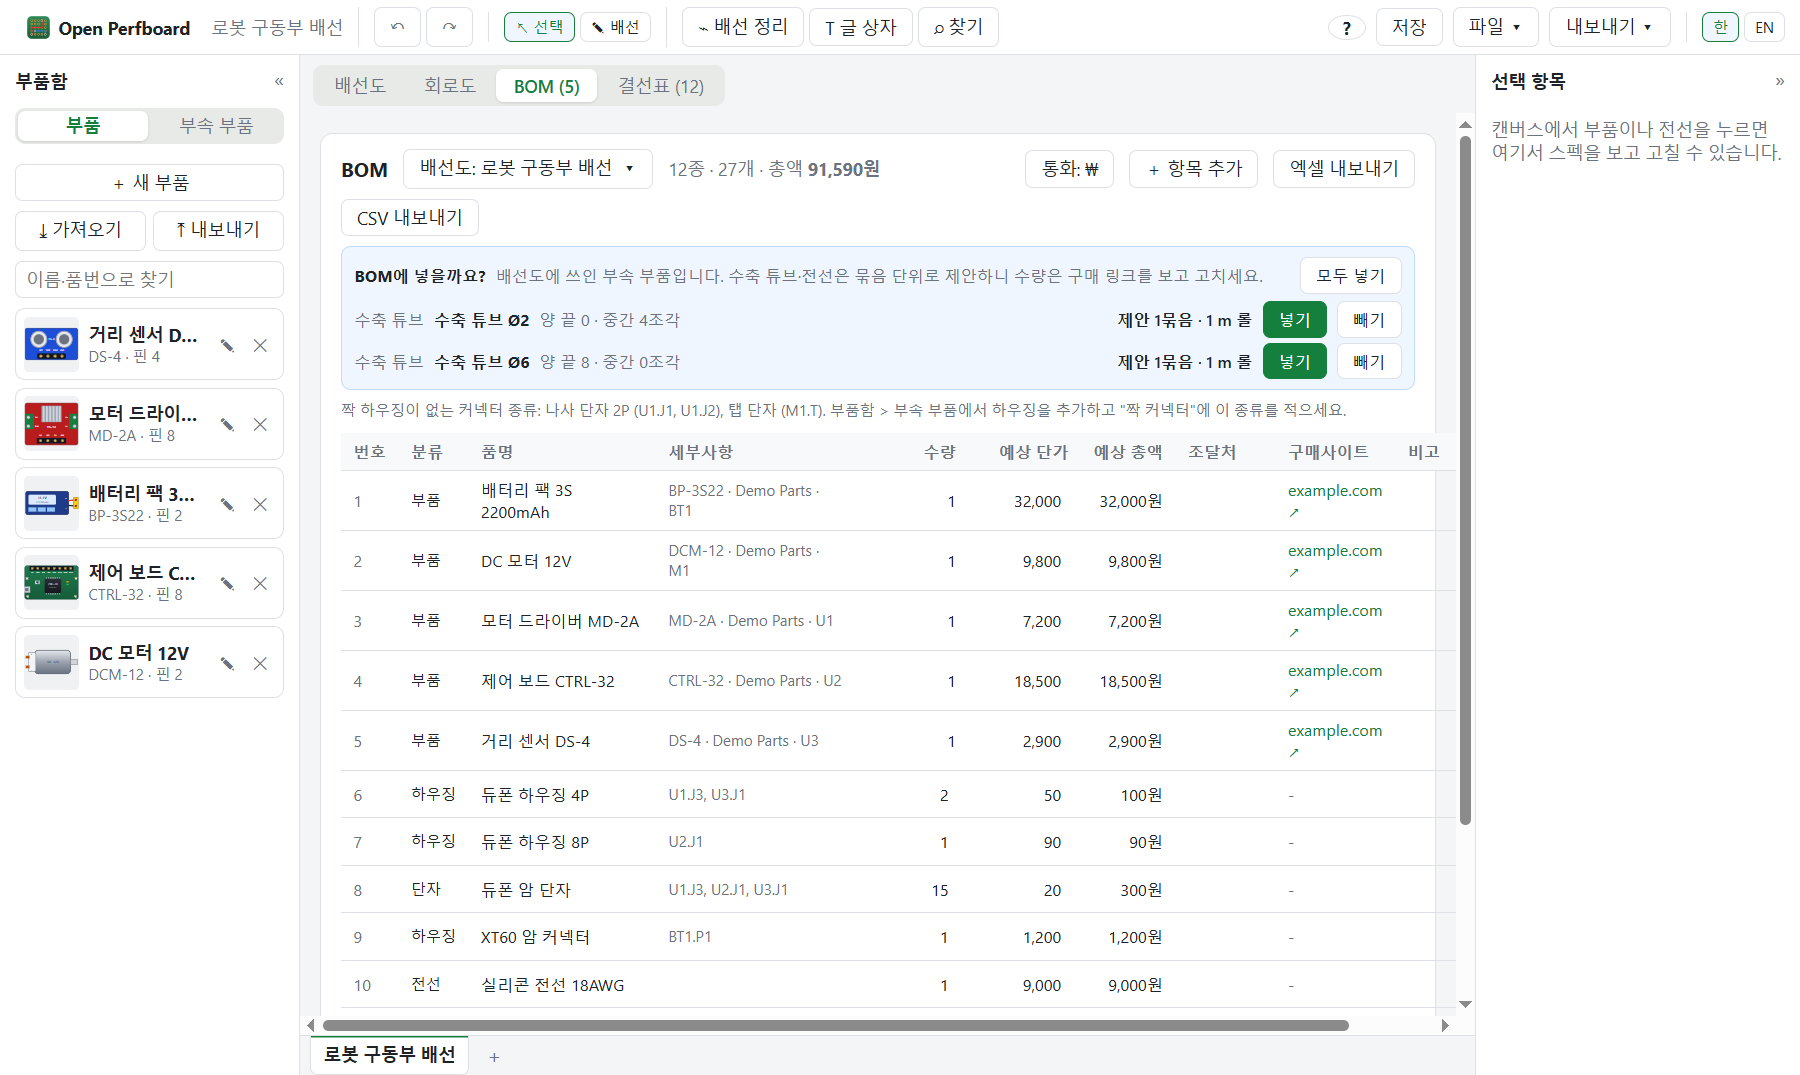
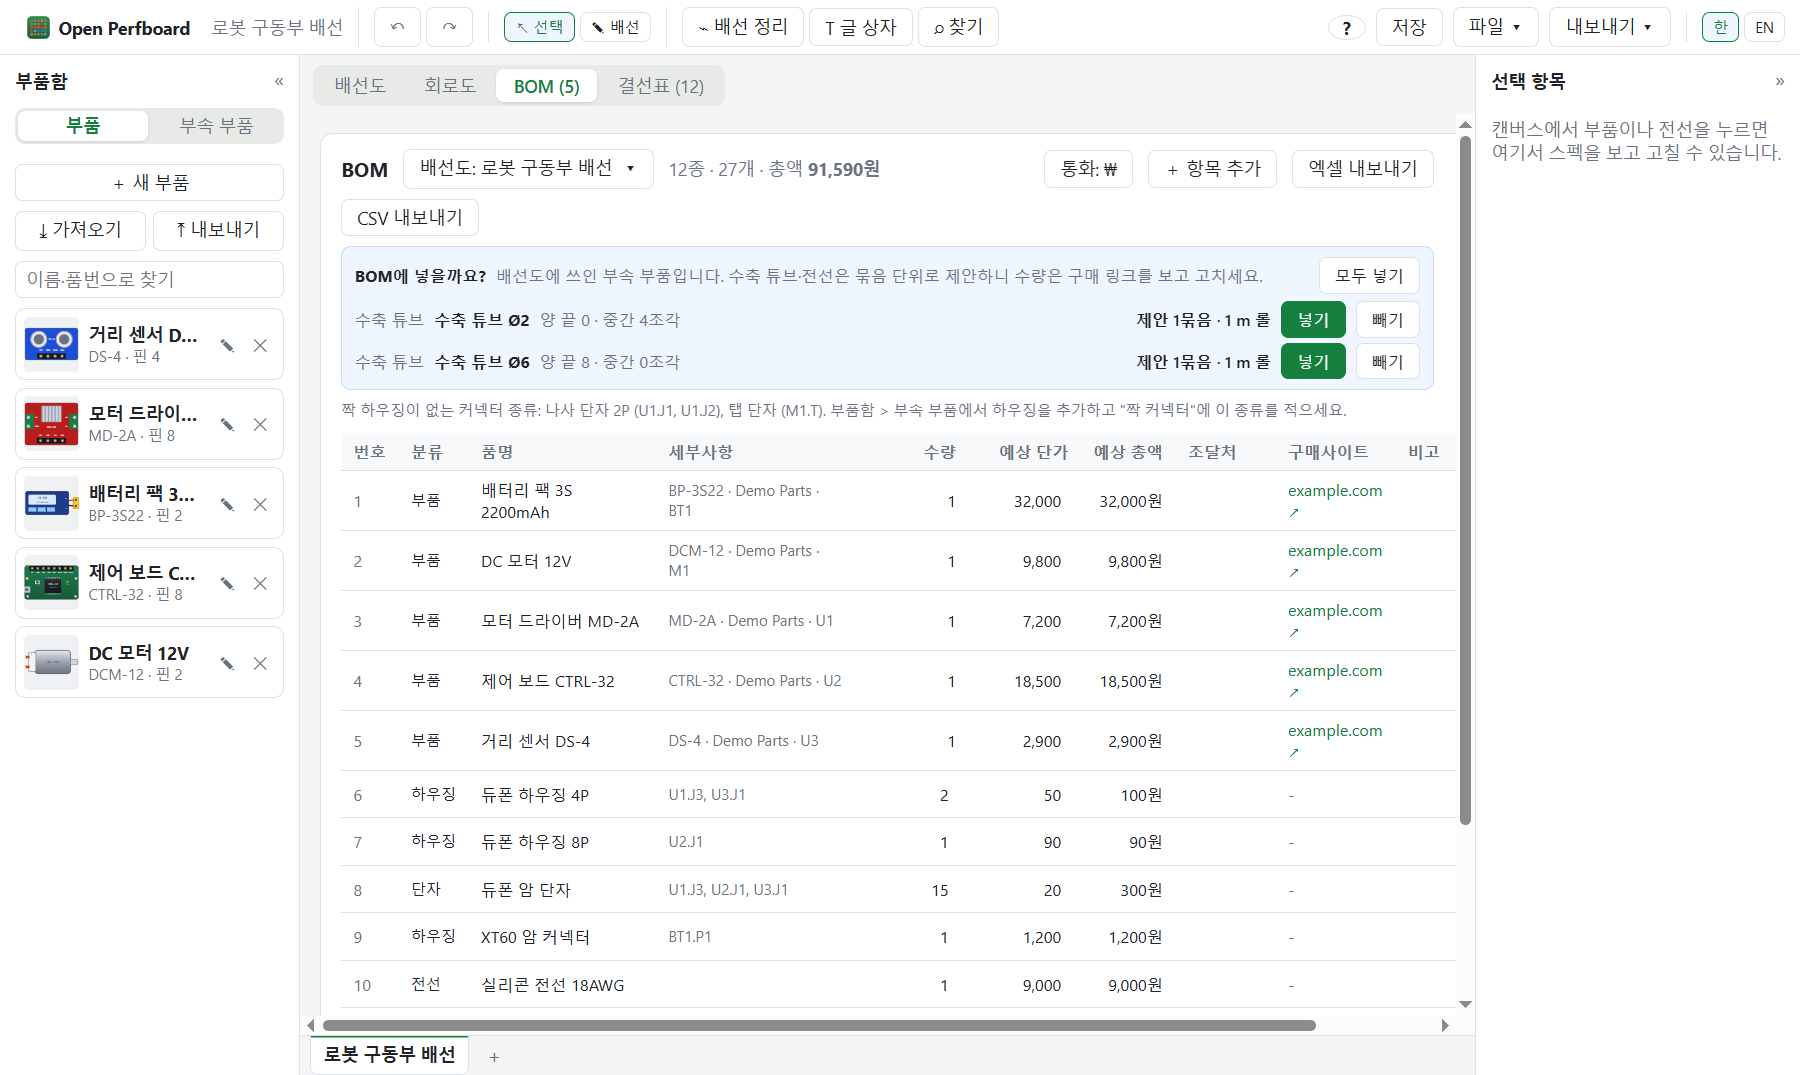
BOM·결선표 표가 카드 밖으로 넘치던 것, 좁은 창에서 도구 막대 넘침 고침
- 양옆 창을 열어 가운데가 좁으면 표가 흰 카드 밖으로 나갔다 → 카드가 표 최소 너비만큼 넓어지고 보기 영역이 가로 스크롤, 표 위 버튼·안내는 보이는 폭 안에 고정 (머리줄 고정·행 그리기는 그대로)
- "포함할 배선도" 펼침 목록이 아래 안내에 가리지 않게
- 좁은 창(1000px)에서 도구 막대가 두 줄로 접혀 앱 전체가 가로로 넘치지 않게 (한·영)
- E2E report-layout.spec, README 스크린샷 다시 찍음
- README 문구: CLAUDE Code를 이용해 개발

diff --git a/tests/e2e/report-layout.spec.ts b/tests/e2e/report-layout.spec.ts
@@ -1,0 +1,65 @@
+import { expect, test, type Page } from '@playwright/test'
+import { buildTwoPartDiagram, launchApp, makeUserDataDir, seedLibrary } from './launch'
+
+/** 표의 오른쪽 끝이 흰 카드 안에 있는지 (px, 카드 오른쪽 - 표 오른쪽) */
+const room = (win: Page, name: string) =>
+  win.evaluate((label) => {
+    const card = document.querySelector(`section.report[aria-label="${label}"]`)!
+    const table = card.querySelector('table')!
+    return card.getBoundingClientRect().right - table.getBoundingClientRect().right
+  }, name)
+
+test('BOM·결선표: 양옆 창을 연 좁은 화면에서도 표가 카드 밖으로 나가지 않는다 (가로 스크롤)', async () => {
+  const userData = makeUserDataDir()
+  seedLibrary(userData)
+  const { app, win } = await launchApp(userData)
+  try {
+    await buildTwoPartDiagram(win)
+    // 창을 가장 좁게 (부품함·선택 항목 창은 열린 채)
+    await app.evaluate(({ BrowserWindow }) => BrowserWindow.getAllWindows()[0]!.setContentSize(1000, 700))
+    await expect(win.locator('.panel.left')).toBeVisible()
+    await expect(win.locator('.panel.right')).toBeVisible()
+
+    await win.getByRole('button', { name: /^BOM \(/ }).click()
+    await expect(win.locator('section.report[aria-label="BOM"] table')).toBeVisible()
+    expect(await room(win, 'BOM')).toBeGreaterThanOrEqual(0)
+    // 표 위 버튼(CSV 내보내기)은 가로로 스크롤하지 않아도 보이고, 머리줄은 표와 같은 왼쪽 줄에서 시작한다
+    await expect(win.getByRole('button', { name: 'CSV 내보내기' })).toBeInViewport({ ratio: 1 })
+    const lefts = await win.evaluate(() => {
+      const card = document.querySelector('section.report[aria-label="BOM"]')!
+      return [card.querySelector('.report-header')!, card.querySelector('table')!].map((e) => Math.round(e.getBoundingClientRect().left))
+    })
+    expect(Math.abs(lefts[0]! - lefts[1]!)).toBeLessThanOrEqual(1)
+    // 넘치는 만큼은 보기 영역이 가로로 스크롤된다
+    const overlay = win.locator('.report-overlay')
+    const scroll = await overlay.evaluate((el) => ({ sw: el.scrollWidth, cw: el.clientWidth }))
+    if (scroll.sw > scroll.cw) {
+      await overlay.evaluate((el) => el.scrollTo(el.scrollWidth, 0))
+      await expect(win.locator('section.report[aria-label="BOM"] th').last()).toBeInViewport()
+    }
+    await win.screenshot({ path: 'test-results/report-layout-bom.png' })
+
+    await win.getByRole('button', { name: /^결선표 \(/ }).click()
+    const netlist = win.locator('section.report').first()
+    await expect(netlist.locator('table')).toBeVisible()
+    const label = await netlist.getAttribute('aria-label')
+    expect(await room(win, label!)).toBeGreaterThanOrEqual(0)
+
+    // 앱 전체도 가로로 넘치지 않는다 (좁으면 도구 막대가 두 줄로), 영어는 글이 더 길다
+    const pageOverflow = () => win.evaluate(() => document.documentElement.scrollWidth - document.documentElement.clientWidth)
+    expect(await pageOverflow()).toBeLessThanOrEqual(0)
+    await win.getByRole('button', { name: 'EN', exact: true }).click()
+    await expect(win.getByRole('button', { name: /^Netlist \(/ })).toBeVisible()
+    expect(await pageOverflow()).toBeLessThanOrEqual(0)
+    await win.screenshot({ path: 'test-results/report-layout-en.png' })
+    await win.getByRole('button', { name: '한', exact: true }).click()
+
+    // 부품 작업실도 (도구 막대가 길다)
+    await win.getByRole('button', { name: '홈', exact: true }).click()
+    await win.locator('.home').getByRole('button', { name: /부품 만들기/ }).click()
+    await expect(win.getByTestId('studio-target')).toBeVisible()
+    expect(await pageOverflow()).toBeLessThanOrEqual(0)
+  } finally {
+    await app.close()
+  }
+})

diff --git a/src/renderer/src/styles.css b/src/renderer/src/styles.css
@@ -43,8 +43,9 @@ button:disabled {
 
 .app {
   display: grid;
-  grid-template-columns: 240px 1fr 260px;
-  grid-template-rows: 44px 1fr;
+  grid-template-columns: 240px minmax(0, 1fr) 260px;
+  /* 도구 막대는 창이 좁으면 두 줄로 접힌다 (한 줄에 다 안 들어가면 앱 전체가 가로로 넘쳤다) */
+  grid-template-rows: auto minmax(0, 1fr);
   grid-template-areas:
     'toolbar toolbar toolbar'
     'left center right';
@@ -54,9 +55,11 @@ button:disabled {
 .toolbar {
   grid-area: toolbar;
   display: flex;
+  flex-wrap: wrap;
   align-items: center;
-  gap: 8px;
-  padding: 0 12px;
+  gap: 4px 8px;
+  min-height: 44px;
+  padding: 4px 12px;
   background: var(--panel);
   border-bottom: 1px solid var(--border);
 }
@@ -484,13 +487,13 @@ button.recent-remove:hover {
 }
 /* 창 접기: 접으면 그 칸이 얇은 띠(28px)가 되고 가운데 배선도가 넓어진다 */
 .app.left-collapsed {
-  grid-template-columns: 28px 1fr 260px;
+  grid-template-columns: 28px minmax(0, 1fr) 260px;
 }
 .app.right-collapsed {
-  grid-template-columns: 240px 1fr 28px;
+  grid-template-columns: 240px minmax(0, 1fr) 28px;
 }
 .app.left-collapsed.right-collapsed {
-  grid-template-columns: 28px 1fr 28px;
+  grid-template-columns: 28px minmax(0, 1fr) 28px;
 }
 .panel {
   position: relative;
@@ -1458,6 +1461,20 @@ button.danger:hover {
   background: var(--bg);
   overflow: auto;
   padding: 16px;
+  /* 안쪽에서 보이는 폭(100cqw)을 쓰려고 */
+  container-type: inline-size;
+}
+/* 표가 넓어 카드가 보이는 폭보다 넓어지면, 표 말고 나머지(머리줄 버튼·안내)는 보이는 폭 안에서 왼쪽에 붙어 있게.
+   left = 카드 테두리 1 + 카드 안 여백 16 (sticky는 보기 영역의 여백 안쪽부터 잰다), 폭 = 보이는 폭 - 카드 테두리·여백 */
+.report > :not(.report-scroll) {
+  position: sticky;
+  left: 17px;
+  max-width: calc(100cqw - 34px);
+  box-sizing: border-box;
+}
+/* sticky는 요소마다 쌓임 순서를 만든다 → 머리줄의 펼침 목록(포함할 배선도)이 아래 안내·표에 가리지 않게 */
+.report > .report-header {
+  z-index: 3;
 }
 /* 회로도 (039): 배선도 캔버스 위를 덮는다 */
 .schematic-overlay {
@@ -1507,6 +1524,9 @@ button.danger:hover {
   border: 1px solid var(--border);
   border-radius: 10px;
   padding: 12px 16px;
+  /* 양옆 창을 열어 가운데가 좁으면 표가 카드 밖으로 나갔다 → 카드가 표의 최소 너비만큼은 넓어지고,
+     넘치는 만큼은 보기 영역(.report-overlay)이 가로로 스크롤한다. 머리줄 고정·행 그리기도 그 영역 스크롤을 쓴다 */
+  min-width: min-content;
 }
 .report-header {
   display: flex;

diff --git a/README.md b/README.md
@@ -138,4 +138,4 @@ Copyright (C) 2026 Minsik Oh
 
 [GPL-3.0-or-later](LICENSE). 누구나 쓰고 고칠 수 있으며, 고친 것을 배포할 때는 소스 전체를 같은 라이선스로 공개하고 위 저작권 표시를 남겨야 합니다.
 
-> 본 프로젝트는 CLAUDE Code로 개발되었습니다.
+> 본 프로젝트는 CLAUDE Code를 이용해 개발되었습니다.
